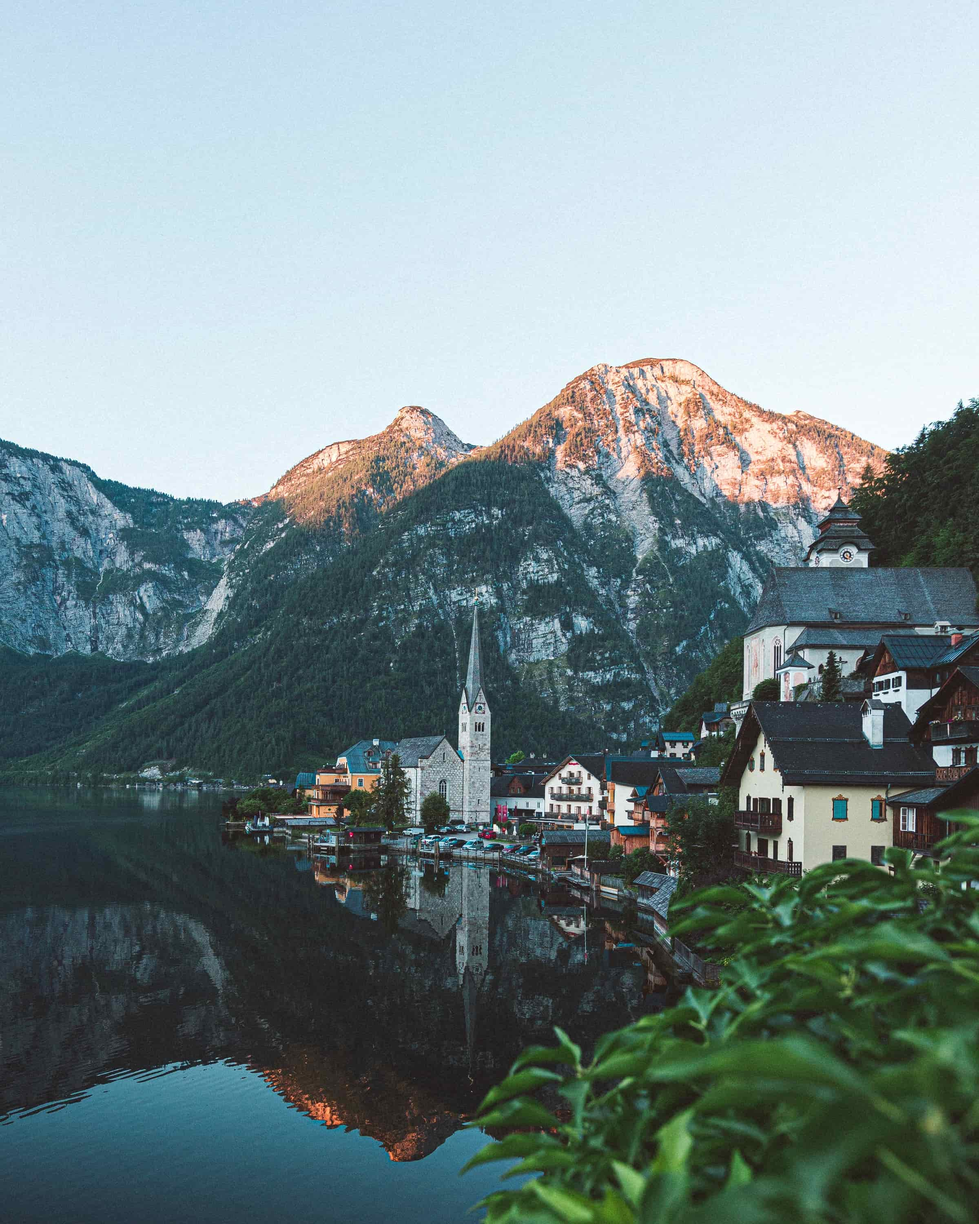
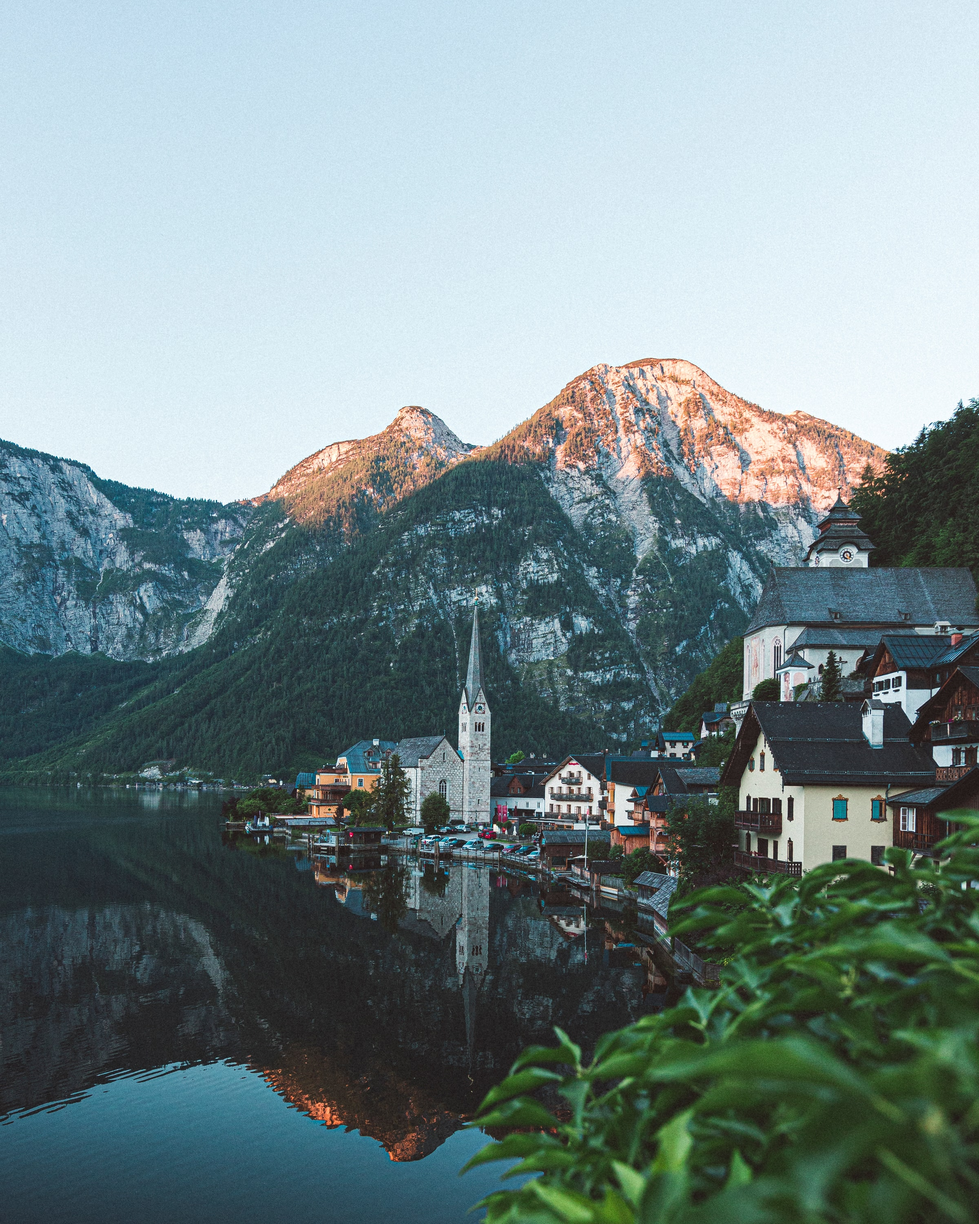
Update styles and assets for header and hero sections

diff --git a/css/main.min.css b/css/main.min.css
@@ -1,1 +1,1 @@
-*,*::before,*::after{-webkit-box-sizing:inherit;box-sizing:inherit;padding:0;margin:0}a{text-decoration:none;color:inherit}h2{font-family:Playfair Display,sans-serif;font-weight:400;font-size:30px;line-height:100%;letter-spacing:0em}h4{font-family:Rubik,sans-serif;font-weight:500;font-size:24px;line-height:100%;letter-spacing:0em;color:#fff}p{font-family:Rubik,sans-serif;font-weight:400;font-size:18px;line-height:100%;letter-spacing:0em}html{text-decoration:none;-webkit-box-sizing:border-box;box-sizing:border-box;padding:0;margin:0}img{display:block;width:100%;height:auto}li{list-style:none}button{cursor:pointer;background:none;border:none}.subtitle{margin-top:32px;color:#767e86}@media screen and (min-width: 768px){.subtitle{font-size:20px}}.title{padding-bottom:20px;position:relative}.title::after{content:"";position:absolute;bottom:0;left:0;width:50%;height:3px;background-color:#ff7757}@media screen and (min-width: 768px){.title{font-size:54px}}.container{margin-left:auto;margin-right:auto;max-width:1440px;padding-left:16px;padding-right:16px}@media screen and (min-width: 320px){.container{width:320px}}@media screen and (min-width: 768px){.container{width:768px}}@media screen and (min-width: 1440px){.container{width:1440px;padding-left:32px;padding-right:32px}}.add-container{margin-top:100px;margin-bottom:100px}.pad-container{padding-top:80px;padding-bottom:80px}.header{background-image:url(/images/hero.jpg);background-size:cover;width:100%;background-position:100%;background-attachment:fixed;background-repeat:no-repeat;padding-bottom:100px}.header__items{display:-webkit-box;display:-ms-flexbox;display:flex;-webkit-box-pack:justify;-ms-flex-pack:justify;justify-content:space-between;-webkit-box-align:center;-ms-flex-align:center;align-items:center;height:98px;padding-left:20px;padding-right:20px}.header__items button:first-child{background-color:rgba(0,0,0,0);border:none;cursor:pointer}@media screen and (min-width: 1440px){.header__items{display:none}}.svg-icon{fill:#fff}.logo{width:140px;height:27.5px;cursor:pointer}@media screen and (min-width: 768px){.logo{width:234px;height:45.608px}}.hamburger{width:50px;height:50px}.hamburger:hover{-webkit-transform:rotate(-90deg);transform:rotate(-90deg);-webkit-transition:-webkit-transform 250ms ease-in-out;transition:-webkit-transform 250ms ease-in-out;transition:transform 250ms ease-in-out;transition:transform 250ms ease-in-out, -webkit-transform 250ms ease-in-out}.header-desktop{display:-webkit-box;display:-ms-flexbox;display:flex;-webkit-box-pack:justify;-ms-flex-pack:justify;justify-content:space-between;-webkit-box-align:center;-ms-flex-align:center;align-items:center;-webkit-box-orient:horizontal;-webkit-box-direction:normal;-ms-flex-direction:row;flex-direction:row;height:128px}@media screen and (min-width: 200px)and (max-width: 1439px){.header-desktop{display:none}}.header-nav__links{display:-webkit-box;display:-ms-flexbox;display:flex;gap:32px;font-family:Rubik,sans-serif;font-weight:400;font-size:20px;line-height:100%;letter-spacing:0em;color:#fff}.header-nav__links .nav-link{position:relative}.header-nav__links .nav-link::after{content:"";position:absolute;width:100%;height:3px;background-color:#ff7757;border-radius:3px;bottom:-8px;left:0;-webkit-transition:-webkit-transform 250ms ease-in-out;transition:-webkit-transform 250ms ease-in-out;transition:transform 250ms ease-in-out;transition:transform 250ms ease-in-out, -webkit-transform 250ms ease-in-out;-webkit-transform:scaleX(0);transform:scaleX(0)}.header-nav__links .nav-link:hover::after{-webkit-transform:scaleX(1);transform:scaleX(1)}.header-buttons{display:-webkit-box;display:-ms-flexbox;display:flex;gap:36px;-webkit-box-align:center;-ms-flex-align:center;align-items:center}.login{font-family:Rubik,sans-serif;font-weight:400;font-size:20px;line-height:100%;letter-spacing:0em;color:#fff}.sign-up{font-family:Rubik,sans-serif;font-weight:400;font-size:20px;line-height:100%;letter-spacing:0em;color:#fff;padding:20px 32px;text-align:center;background-color:#ff7757;border-radius:12px}.main-title{font-family:Playfair Display,sans-serif;font-weight:400;font-size:35px;line-height:100%;letter-spacing:0em;color:#fff;margin-top:100px}@media screen and (min-width: 768px){.main-title{font-size:54px;width:100%}}@media screen and (min-width: 1440px){.main-title{font-size:84px}}.main-subtitle{font-family:Rubik,sans-serif;font-weight:400;font-size:18px;line-height:100%;letter-spacing:0em;color:#fff;margin-top:16px}@media screen and (min-width: 768px){.main-subtitle{font-size:20px}}@media screen and (min-width: 1440px){.main-subtitle{font-size:24px}}.booking-form{background-color:#fff;border-top-left-radius:16px;border-top-right-radius:16px;display:-webkit-box;display:-ms-flexbox;display:flex;margin-top:100px;-webkit-box-orient:vertical;-webkit-box-direction:normal;-ms-flex-direction:column;flex-direction:column;padding:20px;gap:40px}@media screen and (min-width: 768px){.booking-form{display:grid;grid-template-columns:repeat(2, 1fr)}}.booking-form label{font-family:Rubik,sans-serif;color:#767e86;font-weight:400;font-size:14px;line-height:100%;letter-spacing:0em;text-transform:uppercase;margin-bottom:12px}.booking-form select{width:100%;padding-top:12px;padding-bottom:15px;border:none;border-bottom:1px solid #000;font-size:16px}.booking-form input{width:100%;padding:10px;border:none;border-bottom:1px solid #000;font-size:16px;background:rgba(0,0,0,0);appearance:none;-webkit-appearance:none;-moz-appearance:none;cursor:pointer}.date-input-real{position:fixed;width:0;height:0;padding:0;margin:-1px;overflow:hidden;clip:rect(0, 0, 0, 0);white-space:nowrap;border:0}.date-input-custom{width:100%;padding:15px 0px;border-bottom:1px solid #000;font-size:16px;color:#333;background:#fff;-webkit-transition:all .3s ease;transition:all .3s ease;cursor:pointer;position:relative;text-align:left}.date-input-custom::after{content:"⌃";rotate:180deg;position:absolute;right:5px;top:10%;-webkit-transform:translateY(-50%);transform:translateY(-50%);font-size:22px}.date-label{font-family:Playfair Display,sans-serif;font-weight:400;font-size:18px;line-height:100%;letter-spacing:0em;color:#172432;text-transform:capitalize}.main-button{display:-webkit-box;display:-ms-flexbox;display:flex;-webkit-box-align:baseline;-ms-flex-align:baseline;align-items:baseline;color:#fff;background-color:#ff7757;font-family:Playfair Display,sans-serif;font-weight:400;font-size:36px;line-height:100%;letter-spacing:0em;border:none;padding-top:40px;padding-left:20px;padding-bottom:40px;width:100%;text-align:start;border-bottom-left-radius:16px;border-bottom-right-radius:16px;cursor:pointer}.svg-arrow{fill:#fff;width:21px;height:21px;margin-left:auto;margin-right:20px}.destination-section{padding-top:80px}.photo-section{position:relative;overflow:hidden;width:100%;height:320px;border-radius:16px;background-image:url("/images/berlin.jpg");background-position:center;background-size:cover}@media screen and (min-width: 768px){.photo-section{height:456px}}.svg-location{fill:#fff;width:24px;height:24px}.photo-description{display:-webkit-box;display:-ms-flexbox;display:flex;-webkit-box-orient:vertical;-webkit-box-direction:normal;-ms-flex-direction:column;flex-direction:column;gap:17px;position:absolute;bottom:40px;left:20px;color:#fff}.berlin-title{font-family:Playfair Display,sans-serif;font-weight:500;font-size:24px;line-height:100%;letter-spacing:0em}@media screen and (min-width: 768px){.berlin-title{font-size:30px}}@media screen and (min-width: 1440px){.berlin-title{font-size:35px}}.berlin-subtitle{display:-webkit-box;display:-ms-flexbox;display:flex;-webkit-box-align:center;-ms-flex-align:center;align-items:center;gap:16px}@media screen and (min-width: 768px){.berlin-subtitle{font-size:20px}}@media screen and (min-width: 1440px){.berlin-subtitle{font-size:25px}}.button-container{display:-webkit-box;display:-ms-flexbox;display:flex;-webkit-box-pack:center;-ms-flex-pack:center;justify-content:center;-webkit-box-align:center;-ms-flex-align:center;align-items:center;gap:40px;padding-bottom:80px}.button{width:60px;height:66px;border:none;border-radius:12px;cursor:pointer}.back-btn{background-color:#172432}.next-btn{background-color:#ff7757}.arrow{fill:#fff;width:20px;height:10px}.lisbon-container{padding-top:80px}.offer-container{padding-left:16px;padding-right:16px;margin-top:60px}@media screen and (min-width: 1440px){.offer-list{display:-webkit-box;display:-ms-flexbox;display:flex;gap:32px;-webkit-box-pack:center;-ms-flex-pack:center;justify-content:center}}.lisbon-section{overflow:hidden;background-image:url("/images/lisbon.jpg");background-position:center;background-size:cover;height:286px;width:100%;border-top-left-radius:26px;border-top-right-radius:26px}@media screen and (min-width: 768px){.lisbon-section{background-image:url("/images/tablet/lisbon.jpg")}}@media screen and (min-width: 1440px){.lisbon-section{background-image:url("/images/desktop/lisbon@2x.jpg")}}.lisbon-description{padding:20px;background-color:#fff8f1;border-bottom-right-radius:26px;border-bottom-left-radius:26px;margin-bottom:60px}.lisbon-title{font-family:Muli,sans-serif;font-weight:400;font-size:28px;line-height:100%;letter-spacing:0em;color:#767e86}.svg-rating{width:136px;height:24px}.lisbon-header{display:-webkit-box;display:-ms-flexbox;display:flex;-webkit-box-orient:vertical;-webkit-box-direction:normal;-ms-flex-direction:column;flex-direction:column;gap:8px}.lisbon-text{font-family:Rubik,sans-serif;font-weight:400;font-size:16px;line-height:20px;letter-spacing:0em;margin-top:24px;margin-bottom:24px;color:#172432}@media screen and (min-width: 768px){.lisbon-text{font-size:18px}}.lisbon-price{display:-webkit-box;display:-ms-flexbox;display:flex;gap:8px;-webkit-box-align:center;-ms-flex-align:center;align-items:center}.lisbon-price div{font-family:Rubik,sans-serif;font-weight:400;font-size:18px;line-height:100%;letter-spacing:0em;color:#767e86}.lisbon-price span{font-family:Rubik;font-weight:400;font-size:32px;line-height:100%;letter-spacing:0em;color:#ff7757}.lisbon-btn{margin-top:20px;background-color:#ff7654;padding:16px 24px;border:none;border-radius:12px;color:#fff;font-family:Rubik,sans-serif;font-weight:400;font-size:20px;line-height:100%;letter-spacing:0em;text-transform:uppercase;cursor:pointer}@media screen and (min-width: 768px){.lisbon-btn{margin-top:0}}@media screen and (min-width: 768px){.price-container{display:-webkit-box;display:-ms-flexbox;display:flex;-webkit-box-align:center;-ms-flex-align:center;align-items:center;-webkit-box-pack:justify;-ms-flex-pack:justify;justify-content:space-between}}.blog-section{padding-top:80px;padding-bottom:80px}@media screen and (min-width: 1440px){.blog-desktop{display:grid;grid-template-columns:1fr 1fr;gap:32px;-webkit-box-align:center;-ms-flex-align:center;align-items:center}}.blog-photo{margin-top:100px;margin-bottom:32px}@media screen and (min-width: 768px){.italy-title{font-size:54px}}.italy-text{font-family:Rubik,sans-serif;font-weight:400;font-size:18px;line-height:24px;letter-spacing:0em;color:#172432;padding-top:32px;padding-bottom:24px;text-align:justify}@media screen and (min-width: 768px){.italy-text{line-height:42px}}.blog-btn{font-family:Rubik,sans-serif;font-weight:400;font-size:24px;line-height:52px;background-color:rgba(0,0,0,0);letter-spacing:0em;color:#ff7757;display:-webkit-box;display:-ms-flexbox;display:flex;-webkit-box-pack:center;-ms-flex-pack:center;justify-content:center;-webkit-box-align:center;-ms-flex-align:center;align-items:center;border:none;gap:20px;height:52px;cursor:pointer}.svg-arrow-right{fill:#ff7757}.trip-planners{padding-top:80px}@media screen and (min-width: 1440px){.trip-list{display:-webkit-box;display:-ms-flexbox;display:flex;-webkit-box-pack:center;-ms-flex-pack:center;justify-content:center;gap:32px}}.square-container{padding-top:80px;padding-bottom:80px}.cubic{width:43px;height:43px}.trip-btn{position:relative;background-color:#ff7757;font-family:Rubik,sans-serif;font-weight:400;font-size:18px;line-height:100%;letter-spacing:0em;color:#fff;padding:20px;border-radius:12px;border:none;cursor:pointer;margin-left:14px}.cubic-top{z-index:-1;top:-14.5px;left:-14px;position:absolute;background-color:#172432}.cubic-bottom{z-index:-1;bottom:-18px;right:-16px;position:absolute;background-color:#767e86}.guide-thumb{display:-webkit-box;display:-ms-flexbox;display:flex;-webkit-box-orient:vertical;-webkit-box-direction:normal;-ms-flex-direction:column;flex-direction:column;margin-bottom:40px;margin-top:20px;gap:12px}.guide-tour{font-family:Rubik,sans-serif;font-weight:400;font-size:18px;line-height:100%;letter-spacing:0em;text-transform:uppercase;color:#172432;display:-webkit-box;display:-ms-flexbox;display:flex;-webkit-box-pack:justify;-ms-flex-pack:justify;justify-content:space-between}.guide-title{font-family:Playfair Display,sans-serif;font-weight:600;font-size:28px;line-height:100%;letter-spacing:0em;color:#172432}.guide-duration{display:-webkit-box;display:-ms-flexbox;display:flex;-webkit-box-pack:justify;-ms-flex-pack:justify;justify-content:space-between;-webkit-box-align:center;-ms-flex-align:center;align-items:center}.guide-days{font-family:Rubik,sans-serif;font-weight:400;font-size:18px;line-height:100%;letter-spacing:0em;text-transform:uppercase;color:#172432}.guide-thumb:last-child{margin-bottom:80px}.gallery{padding-top:80px}.gallery-list{display:-webkit-box;display:-ms-flexbox;display:flex;-webkit-box-orient:vertical;-webkit-box-direction:normal;-ms-flex-direction:column;flex-direction:column;gap:32px}@media screen and (min-width: 1440px){.gallery-list{-webkit-box-orient:horizontal;-webkit-box-direction:normal;-ms-flex-direction:row;flex-direction:row}}.travel-feedback{position:relative;display:-webkit-box;display:-ms-flexbox;display:flex;-webkit-box-orient:vertical;-webkit-box-direction:normal;-ms-flex-direction:column;flex-direction:column;border-radius:12px;gap:20px;background-color:#f5f6f7;padding:60px 20px 20px 20px}@media screen and (min-width: 768px){.travel-feedback{padding:60px 40px 40px 40px}}.travel-feedback__text{font-family:Rubik,sans-serif;font-weight:400;font-size:18px;line-height:23px;letter-spacing:0em;color:#767e86;text-align:justify}.travel-feedback__author h3{font-family:Playfair Display,sans-serif;font-weight:400;font-size:24px;line-height:100%;letter-spacing:0em;color:#767e86;margin-bottom:4px}.travel-feedback__author p{font-family:Rubik,sans-serif;font-weight:400;font-size:18px;line-height:100%;letter-spacing:0em;color:#767e86}.travel-avatar{position:absolute;top:-65px;left:20px}.travel-avatar img{width:100px;height:100px;border-radius:50%;-o-object-fit:cover;object-fit:cover}@media screen and (min-width: 1440px){.emotions{display:-webkit-box;display:-ms-flexbox;display:flex;-webkit-box-pack:center;-ms-flex-pack:center;justify-content:center;gap:32px}}.newsletter-section{padding-bottom:80px}.newsletter{display:-webkit-box;display:-ms-flexbox;display:flex;-webkit-box-orient:vertical;-webkit-box-direction:normal;-ms-flex-direction:column;flex-direction:column;padding:40px 20px;border-radius:20px;-webkit-box-shadow:0px 0px 4px 0px rgba(0,0,0,.3);box-shadow:0px 0px 4px 0px rgba(0,0,0,.3);background-color:#fff}@media screen and (min-width: 1440px){.newsletter{position:relative;bottom:-250px}}.news-title{text-align:center;color:#767e86;margin-bottom:60px;width:auto}@media screen and (min-width: 768px){.news-title{font-size:54px}}@media screen and (min-width: 1440px){.news-title{font-size:64px}}.form-field{font-family:Rubik,sans-serif;font-weight:400;font-size:20px;line-height:100%;letter-spacing:0em;color:#767e86;margin-bottom:16px}.form-input{background-color:#ffe8d4;height:72px;width:100%;text-align:center;border:none;border-radius:12px;margin-bottom:32px}.form-input::-webkit-input-placeholder{font-family:Rubik,sans-serif;font-weight:400;font-size:20px;line-height:100%;letter-spacing:0em;color:#ff7757}.form-input::-moz-placeholder{font-family:Rubik,sans-serif;font-weight:400;font-size:20px;line-height:100%;letter-spacing:0em;color:#ff7757}.form-input:-ms-input-placeholder{font-family:Rubik,sans-serif;font-weight:400;font-size:20px;line-height:100%;letter-spacing:0em;color:#ff7757}.form-input::-ms-input-placeholder{font-family:Rubik,sans-serif;font-weight:400;font-size:20px;line-height:100%;letter-spacing:0em;color:#ff7757}.form-input::placeholder{font-family:Rubik,sans-serif;font-weight:400;font-size:20px;line-height:100%;letter-spacing:0em;color:#ff7757}.form-input:focus{outline:none}.subscribe-btn{font-family:Rubik,sans-serif;font-weight:400;font-size:20px;line-height:100%;letter-spacing:0em;color:#fff;background-color:#ff7757;border:none;cursor:pointer;border-radius:12px;width:100%;height:73px}.footer{display:-webkit-box;display:-ms-flexbox;display:flex;-webkit-box-orient:vertical;-webkit-box-direction:normal;-ms-flex-direction:column;flex-direction:column;background-color:#172432;padding:80px 16px}@media screen and (min-width: 1440px){.footer{-webkit-box-orient:horizontal;-webkit-box-direction:normal;-ms-flex-direction:row;flex-direction:row;-webkit-box-pack:justify;-ms-flex-pack:justify;justify-content:space-between;padding-top:240px;padding-left:32px;padding-right:32px}}.footer:not(:last-child){gap:60px}.footer li{font-family:Rubik,sans-serif;font-weight:400;font-size:18px;line-height:100%;letter-spacing:0em;color:#fff}.footer li:not(:last-child){margin-bottom:12px}.footer h4{margin-bottom:16px;margin-top:0}.svg-icon-footer{fill:#fff;height:45.61px;width:234px;margin-bottom:16px}.copyright{font-family:Rubik,sans-serif;font-weight:400;font-size:14px;line-height:100%;letter-spacing:0em;color:#fff}.social-media{display:-webkit-box;display:-ms-flexbox;display:flex;-webkit-box-pack:justify;-ms-flex-pack:justify;justify-content:space-between;gap:24px}@media screen and (min-width: 320px)and (max-width: 1439px){.social-media{-webkit-box-pack:left;-ms-flex-pack:left;justify-content:left}}.footer-icon{fill:#fff;width:32px;height:32px}/*# sourceMappingURL=main.min.css.map */
+*,*::before,*::after{-webkit-box-sizing:inherit;box-sizing:inherit;padding:0;margin:0}a{text-decoration:none;color:inherit}h2{font-family:Playfair Display,sans-serif;font-weight:400;font-size:30px;line-height:100%;letter-spacing:0em}h4{font-family:Rubik,sans-serif;font-weight:500;font-size:24px;line-height:100%;letter-spacing:0em;color:#fff}p{font-family:Rubik,sans-serif;font-weight:400;font-size:18px;line-height:100%;letter-spacing:0em}html{text-decoration:none;-webkit-box-sizing:border-box;box-sizing:border-box;padding:0;margin:0}img{display:block;width:100%;height:auto}li{list-style:none}button{cursor:pointer;background:none;border:none}.subtitle{margin-top:32px;color:#767e86}@media screen and (min-width: 768px){.subtitle{font-size:20px}}.title{padding-bottom:20px;position:relative}.title::after{content:"";position:absolute;bottom:0;left:0;width:50%;height:3px;background-color:#ff7757}@media screen and (min-width: 768px){.title{font-size:54px}}.container{margin-left:auto;margin-right:auto;max-width:1440px;padding-left:16px;padding-right:16px}@media screen and (min-width: 320px){.container{width:320px}}@media screen and (min-width: 768px){.container{width:768px}}@media screen and (min-width: 1440px){.container{width:1440px;padding-left:32px;padding-right:32px}}.add-container{margin-top:100px;margin-bottom:100px}.pad-container{padding-top:80px;padding-bottom:80px}.header{background-image:url(/images/hero.jpg);background-size:cover;width:100%;background-position:center;background-repeat:no-repeat;padding-bottom:100px}@media screen and (min-width: 768px)and (max-width: 1439px){.header{background-position:center 30% center}}@media screen and (min-width: 1440px){.header{background-position:bottom center}}.header__items{display:-webkit-box;display:-ms-flexbox;display:flex;-webkit-box-pack:justify;-ms-flex-pack:justify;justify-content:space-between;-webkit-box-align:center;-ms-flex-align:center;align-items:center;height:98px;padding-left:20px;padding-right:20px}.header__items button:first-child{background-color:rgba(0,0,0,0);border:none;cursor:pointer}@media screen and (min-width: 1440px){.header__items{display:none}}.svg-icon{fill:#fff}.logo{width:140px;height:27.5px;cursor:pointer}@media screen and (min-width: 768px){.logo{width:234px;height:45.608px}}.hamburger{width:50px;height:50px}.hamburger:hover{-webkit-transform:rotate(-90deg);transform:rotate(-90deg);-webkit-transition:-webkit-transform 250ms ease-in-out;transition:-webkit-transform 250ms ease-in-out;transition:transform 250ms ease-in-out;transition:transform 250ms ease-in-out, -webkit-transform 250ms ease-in-out}.header-desktop{display:-webkit-box;display:-ms-flexbox;display:flex;-webkit-box-pack:justify;-ms-flex-pack:justify;justify-content:space-between;-webkit-box-align:center;-ms-flex-align:center;align-items:center;-webkit-box-orient:horizontal;-webkit-box-direction:normal;-ms-flex-direction:row;flex-direction:row;height:128px}@media screen and (min-width: 200px)and (max-width: 1439px){.header-desktop{display:none}}.header-nav__links{display:-webkit-box;display:-ms-flexbox;display:flex;gap:32px;font-family:Rubik,sans-serif;font-weight:400;font-size:20px;line-height:100%;letter-spacing:0em;color:#fff}.header-nav__links .nav-link{position:relative}.header-nav__links .nav-link::after{content:"";position:absolute;width:100%;height:3px;background-color:#ff7757;border-radius:3px;bottom:-8px;left:0;-webkit-transition:-webkit-transform 250ms ease-in-out;transition:-webkit-transform 250ms ease-in-out;transition:transform 250ms ease-in-out;transition:transform 250ms ease-in-out, -webkit-transform 250ms ease-in-out;-webkit-transform:scaleX(0);transform:scaleX(0)}.header-nav__links .nav-link:hover::after{-webkit-transform:scaleX(1);transform:scaleX(1)}.header-buttons{display:-webkit-box;display:-ms-flexbox;display:flex;gap:36px;-webkit-box-align:center;-ms-flex-align:center;align-items:center}.login{font-family:Rubik,sans-serif;font-weight:400;font-size:20px;line-height:100%;letter-spacing:0em;color:#fff}.sign-up{font-family:Rubik,sans-serif;font-weight:400;font-size:20px;line-height:100%;letter-spacing:0em;color:#fff;padding:20px 32px;text-align:center;background-color:#ff7757;border-radius:12px}.main-title{font-family:Playfair Display,sans-serif;font-weight:400;font-size:35px;line-height:100%;letter-spacing:0em;color:#fff;margin-top:100px;margin-bottom:0}@media screen and (min-width: 768px){.main-title{font-size:54px;width:100%}}@media screen and (min-width: 1440px){.main-title{font-size:84px}}.main-subtitle{font-family:Rubik,sans-serif;font-weight:400;font-size:18px;line-height:100%;letter-spacing:0em;color:#fff;margin-top:16px}@media screen and (min-width: 768px){.main-subtitle{font-size:20px}}@media screen and (min-width: 1440px){.main-subtitle{font-size:24px}}.booking-form{background-color:#fff;border-top-left-radius:16px;border-top-right-radius:16px;display:-webkit-box;display:-ms-flexbox;display:flex;margin-top:100px;-webkit-box-orient:vertical;-webkit-box-direction:normal;-ms-flex-direction:column;flex-direction:column;padding:20px;gap:40px}@media screen and (min-width: 768px){.booking-form{display:grid;grid-template-columns:repeat(2, 1fr)}}.booking-form label{font-family:Rubik,sans-serif;color:#767e86;font-weight:400;font-size:14px;line-height:100%;letter-spacing:0em;text-transform:uppercase;margin-bottom:12px}.booking-form select{width:100%;padding-top:12px;padding-bottom:15px;border:none;border-bottom:1px solid #000;font-size:16px}.booking-form input{width:100%;padding:10px;border:none;border-bottom:1px solid #000;font-size:16px;background:rgba(0,0,0,0);appearance:none;-webkit-appearance:none;-moz-appearance:none;cursor:pointer}.date-input-real{position:fixed;width:0;height:0;padding:0;margin:-1px;overflow:hidden;clip:rect(0, 0, 0, 0);white-space:nowrap;border:0}.date-input-custom{width:100%;padding:15px 0px;border-bottom:1px solid #000;font-size:16px;color:#333;background:#fff;-webkit-transition:all .3s ease;transition:all .3s ease;cursor:pointer;position:relative;text-align:left}.date-input-custom::after{content:"⌃";rotate:180deg;position:absolute;right:5px;top:10%;-webkit-transform:translateY(-50%);transform:translateY(-50%);font-size:22px}.date-label{font-family:Playfair Display,sans-serif;font-weight:400;font-size:18px;line-height:100%;letter-spacing:0em;color:#172432;text-transform:capitalize}.main-button{display:-webkit-box;display:-ms-flexbox;display:flex;-webkit-box-align:baseline;-ms-flex-align:baseline;align-items:baseline;color:#fff;background-color:#ff7757;font-family:Playfair Display,sans-serif;font-weight:400;font-size:36px;line-height:100%;letter-spacing:0em;border:none;padding-top:40px;padding-left:20px;padding-bottom:40px;width:100%;text-align:start;border-bottom-left-radius:16px;border-bottom-right-radius:16px;cursor:pointer}.svg-arrow{fill:#fff;width:21px;height:21px;margin-left:auto;margin-right:20px}.destination-section{padding-top:80px}.photo-section{position:relative;overflow:hidden;width:100%;height:320px;border-radius:16px;background-image:url("/images/berlin.jpg");background-position:center;background-size:cover}@media screen and (min-width: 768px){.photo-section{height:456px}}.svg-location{fill:#fff;width:24px;height:24px}.photo-description{display:-webkit-box;display:-ms-flexbox;display:flex;-webkit-box-orient:vertical;-webkit-box-direction:normal;-ms-flex-direction:column;flex-direction:column;gap:17px;position:absolute;bottom:40px;left:20px;color:#fff}.berlin-title{font-family:Playfair Display,sans-serif;font-weight:500;font-size:24px;line-height:100%;letter-spacing:0em}@media screen and (min-width: 768px){.berlin-title{font-size:30px}}@media screen and (min-width: 1440px){.berlin-title{font-size:35px}}.berlin-subtitle{display:-webkit-box;display:-ms-flexbox;display:flex;-webkit-box-align:center;-ms-flex-align:center;align-items:center;gap:16px}@media screen and (min-width: 768px){.berlin-subtitle{font-size:20px}}@media screen and (min-width: 1440px){.berlin-subtitle{font-size:25px}}.button-container{display:-webkit-box;display:-ms-flexbox;display:flex;-webkit-box-pack:center;-ms-flex-pack:center;justify-content:center;-webkit-box-align:center;-ms-flex-align:center;align-items:center;gap:40px;padding-bottom:80px}.button{width:60px;height:66px;border:none;border-radius:12px;cursor:pointer}.back-btn{background-color:#172432}.next-btn{background-color:#ff7757}.arrow{fill:#fff;width:20px;height:10px}.lisbon-container{padding-top:80px}.offer-container{padding-left:16px;padding-right:16px;margin-top:60px}@media screen and (min-width: 1440px){.offer-list{display:-webkit-box;display:-ms-flexbox;display:flex;gap:32px;-webkit-box-pack:center;-ms-flex-pack:center;justify-content:center}}.lisbon-section{overflow:hidden;background-image:url("/images/lisbon.jpg");background-position:center;background-size:cover;height:286px;width:100%;border-top-left-radius:26px;border-top-right-radius:26px}@media screen and (min-width: 768px){.lisbon-section{background-image:url("/images/tablet/lisbon.jpg")}}@media screen and (min-width: 1440px){.lisbon-section{background-image:url("/images/desktop/lisbon@2x.jpg")}}.lisbon-description{padding:20px;background-color:#fff8f1;border-bottom-right-radius:26px;border-bottom-left-radius:26px;margin-bottom:60px}.lisbon-title{font-family:Muli,sans-serif;font-weight:400;font-size:28px;line-height:100%;letter-spacing:0em;color:#767e86}.svg-rating{width:136px;height:24px}.lisbon-header{display:-webkit-box;display:-ms-flexbox;display:flex;-webkit-box-orient:vertical;-webkit-box-direction:normal;-ms-flex-direction:column;flex-direction:column;gap:8px}.lisbon-text{font-family:Rubik,sans-serif;font-weight:400;font-size:16px;line-height:20px;letter-spacing:0em;margin-top:24px;margin-bottom:24px;color:#172432}@media screen and (min-width: 768px){.lisbon-text{font-size:18px}}.lisbon-price{display:-webkit-box;display:-ms-flexbox;display:flex;gap:8px;-webkit-box-align:center;-ms-flex-align:center;align-items:center}.lisbon-price div{font-family:Rubik,sans-serif;font-weight:400;font-size:18px;line-height:100%;letter-spacing:0em;color:#767e86}.lisbon-price span{font-family:Rubik;font-weight:400;font-size:32px;line-height:100%;letter-spacing:0em;color:#ff7757}.lisbon-btn{margin-top:20px;background-color:#ff7654;padding:16px 24px;border:none;border-radius:12px;color:#fff;font-family:Rubik,sans-serif;font-weight:400;font-size:20px;line-height:100%;letter-spacing:0em;text-transform:uppercase;cursor:pointer}@media screen and (min-width: 768px){.lisbon-btn{margin-top:0}}@media screen and (min-width: 768px){.price-container{display:-webkit-box;display:-ms-flexbox;display:flex;-webkit-box-align:center;-ms-flex-align:center;align-items:center;-webkit-box-pack:justify;-ms-flex-pack:justify;justify-content:space-between}}.blog-section{padding-top:80px;padding-bottom:80px}@media screen and (min-width: 1440px){.blog-desktop{display:grid;grid-template-columns:1fr 1fr;gap:32px;-webkit-box-align:center;-ms-flex-align:center;align-items:center}}.blog-photo{margin-top:100px;margin-bottom:32px}@media screen and (min-width: 768px){.italy-title{font-size:54px}}.italy-text{font-family:Rubik,sans-serif;font-weight:400;font-size:18px;line-height:24px;letter-spacing:0em;color:#172432;padding-top:32px;padding-bottom:24px;text-align:justify}@media screen and (min-width: 768px){.italy-text{line-height:42px}}.blog-btn{font-family:Rubik,sans-serif;font-weight:400;font-size:24px;line-height:52px;background-color:rgba(0,0,0,0);letter-spacing:0em;color:#ff7757;display:-webkit-box;display:-ms-flexbox;display:flex;-webkit-box-pack:center;-ms-flex-pack:center;justify-content:center;-webkit-box-align:center;-ms-flex-align:center;align-items:center;border:none;gap:20px;height:52px;cursor:pointer}.svg-arrow-right{fill:#ff7757}.trip-planners{padding-top:80px}@media screen and (min-width: 1440px){.trip-list{display:-webkit-box;display:-ms-flexbox;display:flex;-webkit-box-pack:center;-ms-flex-pack:center;justify-content:center;gap:32px}}.square-container{padding-top:80px;padding-bottom:80px}.cubic{width:43px;height:43px}.trip-btn{position:relative;background-color:#ff7757;font-family:Rubik,sans-serif;font-weight:400;font-size:18px;line-height:100%;letter-spacing:0em;color:#fff;padding:20px;border-radius:12px;border:none;cursor:pointer;margin-left:14px}.cubic-top{z-index:-1;top:-14.5px;left:-14px;position:absolute;background-color:#172432}.cubic-bottom{z-index:-1;bottom:-18px;right:-16px;position:absolute;background-color:#767e86}.guide-thumb{display:-webkit-box;display:-ms-flexbox;display:flex;-webkit-box-orient:vertical;-webkit-box-direction:normal;-ms-flex-direction:column;flex-direction:column;margin-bottom:40px;margin-top:20px;gap:12px}.guide-tour{font-family:Rubik,sans-serif;font-weight:400;font-size:18px;line-height:100%;letter-spacing:0em;text-transform:uppercase;color:#172432;display:-webkit-box;display:-ms-flexbox;display:flex;-webkit-box-pack:justify;-ms-flex-pack:justify;justify-content:space-between}.guide-title{font-family:Playfair Display,sans-serif;font-weight:600;font-size:28px;line-height:100%;letter-spacing:0em;color:#172432}.guide-duration{display:-webkit-box;display:-ms-flexbox;display:flex;-webkit-box-pack:justify;-ms-flex-pack:justify;justify-content:space-between;-webkit-box-align:center;-ms-flex-align:center;align-items:center}.guide-days{font-family:Rubik,sans-serif;font-weight:400;font-size:18px;line-height:100%;letter-spacing:0em;text-transform:uppercase;color:#172432}.guide-thumb:last-child{margin-bottom:80px}.gallery{padding-top:80px}.gallery-list{display:-webkit-box;display:-ms-flexbox;display:flex;-webkit-box-orient:vertical;-webkit-box-direction:normal;-ms-flex-direction:column;flex-direction:column;gap:32px}@media screen and (min-width: 1440px){.gallery-list{-webkit-box-orient:horizontal;-webkit-box-direction:normal;-ms-flex-direction:row;flex-direction:row}}.travel-feedback{position:relative;display:-webkit-box;display:-ms-flexbox;display:flex;-webkit-box-orient:vertical;-webkit-box-direction:normal;-ms-flex-direction:column;flex-direction:column;border-radius:12px;gap:20px;background-color:#f5f6f7;padding:60px 20px 20px 20px}@media screen and (min-width: 768px){.travel-feedback{padding:60px 40px 40px 40px}}.travel-feedback__text{font-family:Rubik,sans-serif;font-weight:400;font-size:18px;line-height:23px;letter-spacing:0em;color:#767e86;text-align:justify}.travel-feedback__author h3{font-family:Playfair Display,sans-serif;font-weight:400;font-size:24px;line-height:100%;letter-spacing:0em;color:#767e86;margin-bottom:4px}.travel-feedback__author p{font-family:Rubik,sans-serif;font-weight:400;font-size:18px;line-height:100%;letter-spacing:0em;color:#767e86}.travel-avatar{position:absolute;top:-65px;left:20px}.travel-avatar img{width:100px;height:100px;border-radius:50%;-o-object-fit:cover;object-fit:cover}@media screen and (min-width: 1440px){.emotions{display:-webkit-box;display:-ms-flexbox;display:flex;-webkit-box-pack:center;-ms-flex-pack:center;justify-content:center;gap:32px}}.newsletter-section{padding-bottom:80px}.newsletter{display:-webkit-box;display:-ms-flexbox;display:flex;-webkit-box-orient:vertical;-webkit-box-direction:normal;-ms-flex-direction:column;flex-direction:column;padding:40px 20px;border-radius:20px;-webkit-box-shadow:0px 0px 4px 0px rgba(0,0,0,.3);box-shadow:0px 0px 4px 0px rgba(0,0,0,.3);background-color:#fff}@media screen and (min-width: 1440px){.newsletter{position:relative;bottom:-250px}}.news-title{text-align:center;color:#767e86;margin-bottom:60px;width:auto}@media screen and (min-width: 768px){.news-title{font-size:54px}}@media screen and (min-width: 1440px){.news-title{font-size:64px}}.form-field{font-family:Rubik,sans-serif;font-weight:400;font-size:20px;line-height:100%;letter-spacing:0em;color:#767e86;margin-bottom:16px}.form-input{background-color:#ffe8d4;height:72px;width:100%;text-align:center;border:none;border-radius:12px;margin-bottom:32px}.form-input::-webkit-input-placeholder{font-family:Rubik,sans-serif;font-weight:400;font-size:20px;line-height:100%;letter-spacing:0em;color:#ff7757}.form-input::-moz-placeholder{font-family:Rubik,sans-serif;font-weight:400;font-size:20px;line-height:100%;letter-spacing:0em;color:#ff7757}.form-input:-ms-input-placeholder{font-family:Rubik,sans-serif;font-weight:400;font-size:20px;line-height:100%;letter-spacing:0em;color:#ff7757}.form-input::-ms-input-placeholder{font-family:Rubik,sans-serif;font-weight:400;font-size:20px;line-height:100%;letter-spacing:0em;color:#ff7757}.form-input::placeholder{font-family:Rubik,sans-serif;font-weight:400;font-size:20px;line-height:100%;letter-spacing:0em;color:#ff7757}.form-input:focus{outline:none}.subscribe-btn{font-family:Rubik,sans-serif;font-weight:400;font-size:20px;line-height:100%;letter-spacing:0em;color:#fff;background-color:#ff7757;border:none;cursor:pointer;border-radius:12px;width:100%;height:73px}.footer{display:-webkit-box;display:-ms-flexbox;display:flex;-webkit-box-orient:vertical;-webkit-box-direction:normal;-ms-flex-direction:column;flex-direction:column;background-color:#172432;padding:80px 16px}@media screen and (min-width: 1440px){.footer{-webkit-box-orient:horizontal;-webkit-box-direction:normal;-ms-flex-direction:row;flex-direction:row;-webkit-box-pack:justify;-ms-flex-pack:justify;justify-content:space-between;padding-top:240px;padding-left:32px;padding-right:32px}}.footer:not(:last-child){gap:60px}.footer li{font-family:Rubik,sans-serif;font-weight:400;font-size:18px;line-height:100%;letter-spacing:0em;color:#fff}.footer li:not(:last-child){margin-bottom:12px}.footer h4{margin-bottom:16px;margin-top:0}.svg-icon-footer{fill:#fff;height:45.61px;width:234px;margin-bottom:16px}.copyright{font-family:Rubik,sans-serif;font-weight:400;font-size:14px;line-height:100%;letter-spacing:0em;color:#fff}.social-media{display:-webkit-box;display:-ms-flexbox;display:flex;-webkit-box-pack:justify;-ms-flex-pack:justify;justify-content:space-between;gap:24px}@media screen and (min-width: 320px)and (max-width: 1439px){.social-media{-webkit-box-pack:left;-ms-flex-pack:left;justify-content:left}}.footer-icon{fill:#fff;width:32px;height:32px}/*# sourceMappingURL=main.min.css.map */

diff --git a/css/main.css b/css/main.css
@@ -130,10 +130,19 @@ button {
   background-image: url(/images/hero.jpg);
   background-size: cover;
   width: 100%;
-  background-position: 100%;
-  background-attachment: fixed;
+  background-position: center;
   background-repeat: no-repeat;
   padding-bottom: 100px;
+}
+@media screen and (min-width: 768px) and (max-width: 1439px) {
+  .header {
+    background-position: center 30% center;
+  }
+}
+@media screen and (min-width: 1440px) {
+  .header {
+    background-position: bottom center;
+  }
 }
 
 .header__items {
@@ -288,6 +297,7 @@ button {
   letter-spacing: 0em;
   color: rgb(255, 255, 255);
   margin-top: 100px;
+  margin-bottom: 0;
 }
 @media screen and (min-width: 768px) {
   .main-title {

diff --git a/sass/components/_header.scss b/sass/components/_header.scss
@@ -2,10 +2,15 @@
   background-image: url(/images/hero.jpg);
   background-size: cover;
   width: 100%;
-  background-position: 100%;
-  background-attachment: fixed;
+  background-position: center;
   background-repeat: no-repeat;
   padding-bottom: 100px;
+  @media screen and (min-width: $tablet) and (max-width: 1439px) {
+    background-position: center 30% center;
+  }
+  @media screen and (min-width: $desktop) {
+    background-position: bottom center;
+  }
 }
 
 .header__items {

diff --git a/sass/components/_hero-titles.scss b/sass/components/_hero-titles.scss
@@ -6,6 +6,7 @@
   letter-spacing: 0em;
   color: $main-color;
   margin-top: 100px;
+  margin-bottom: 0;
   @media screen and (min-width: $tablet) {
     font-size: 54px;
     width: 100%;
